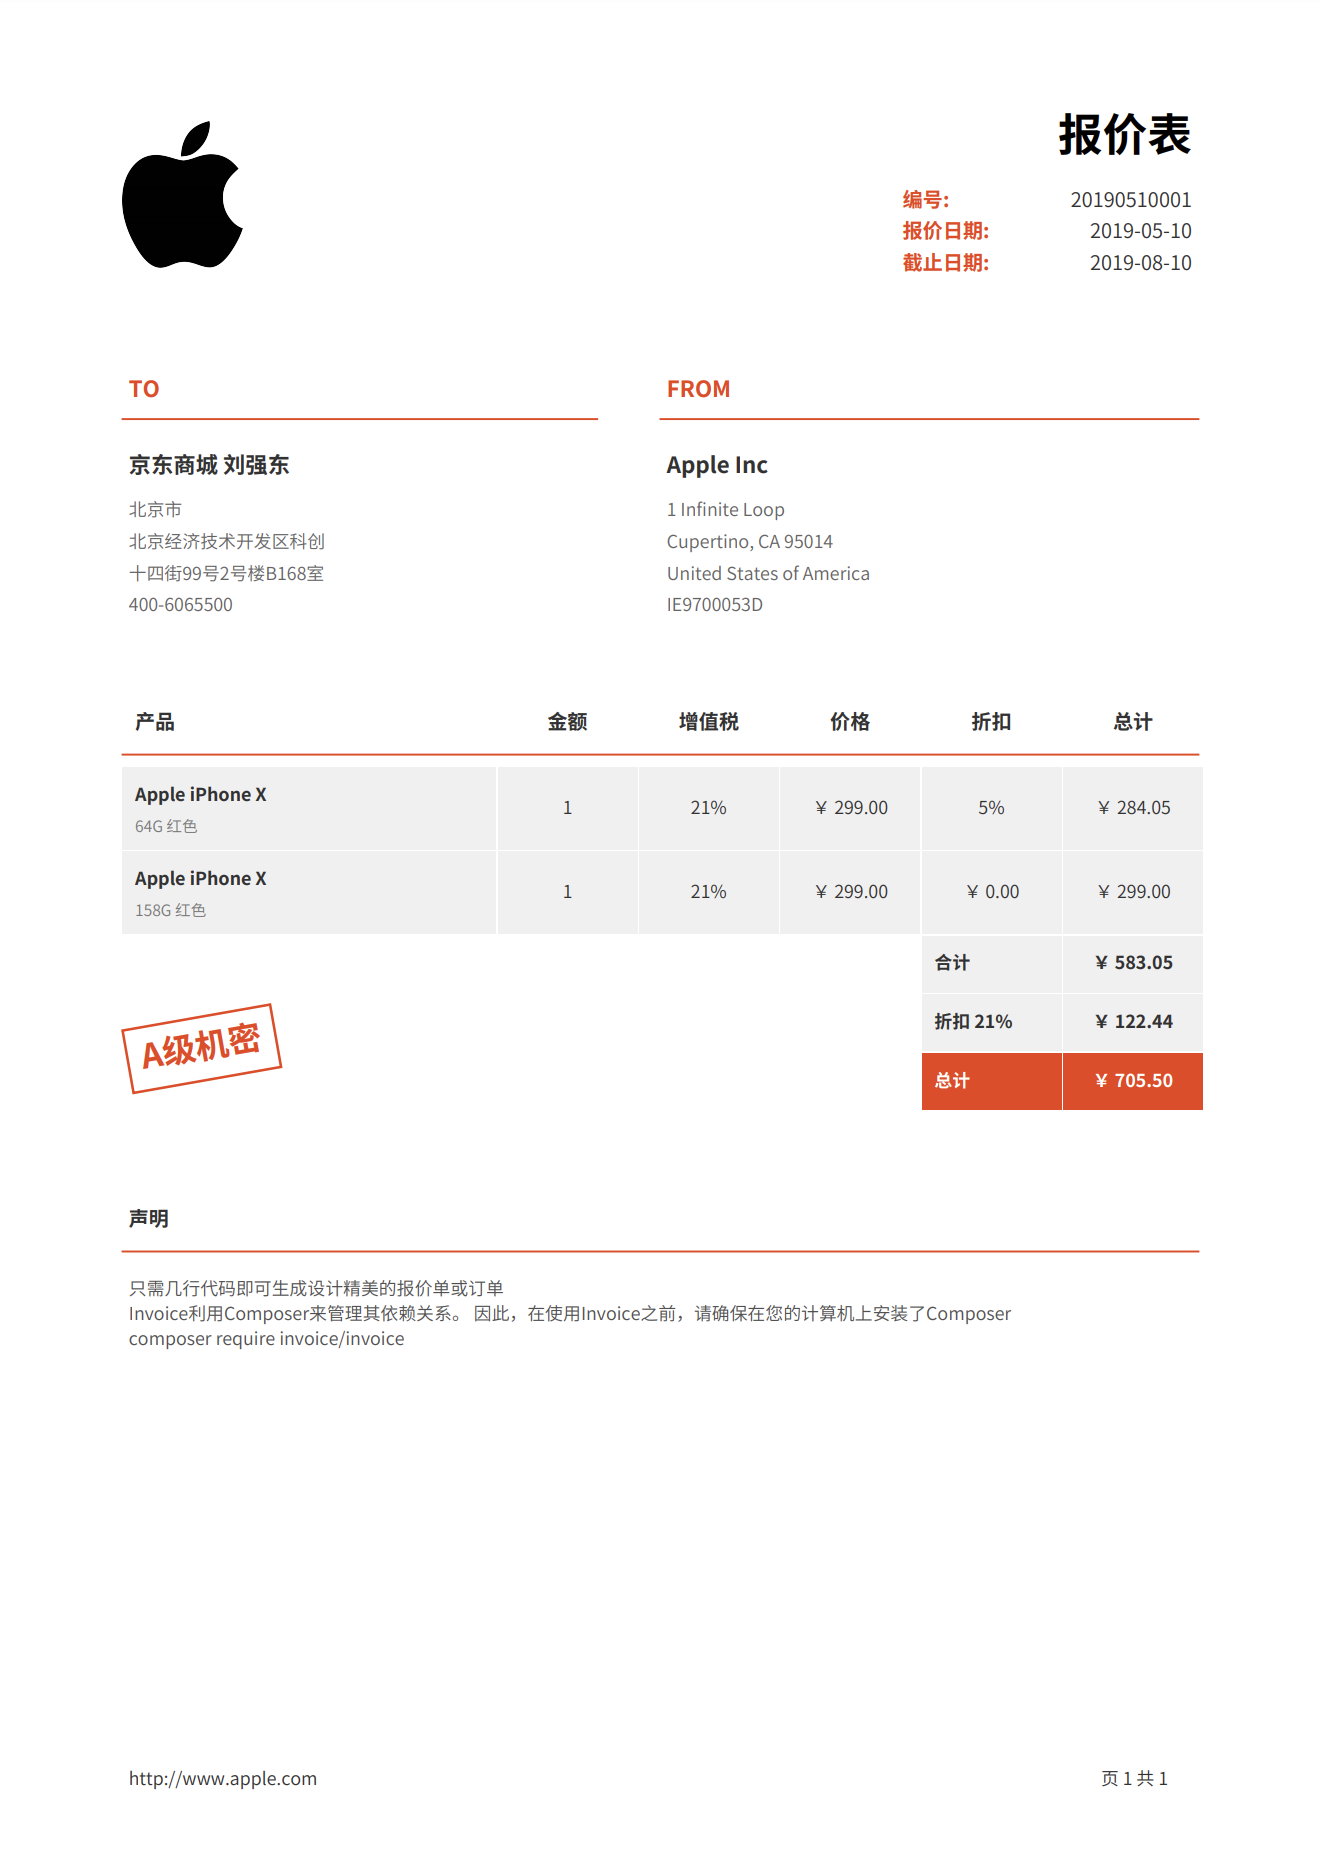
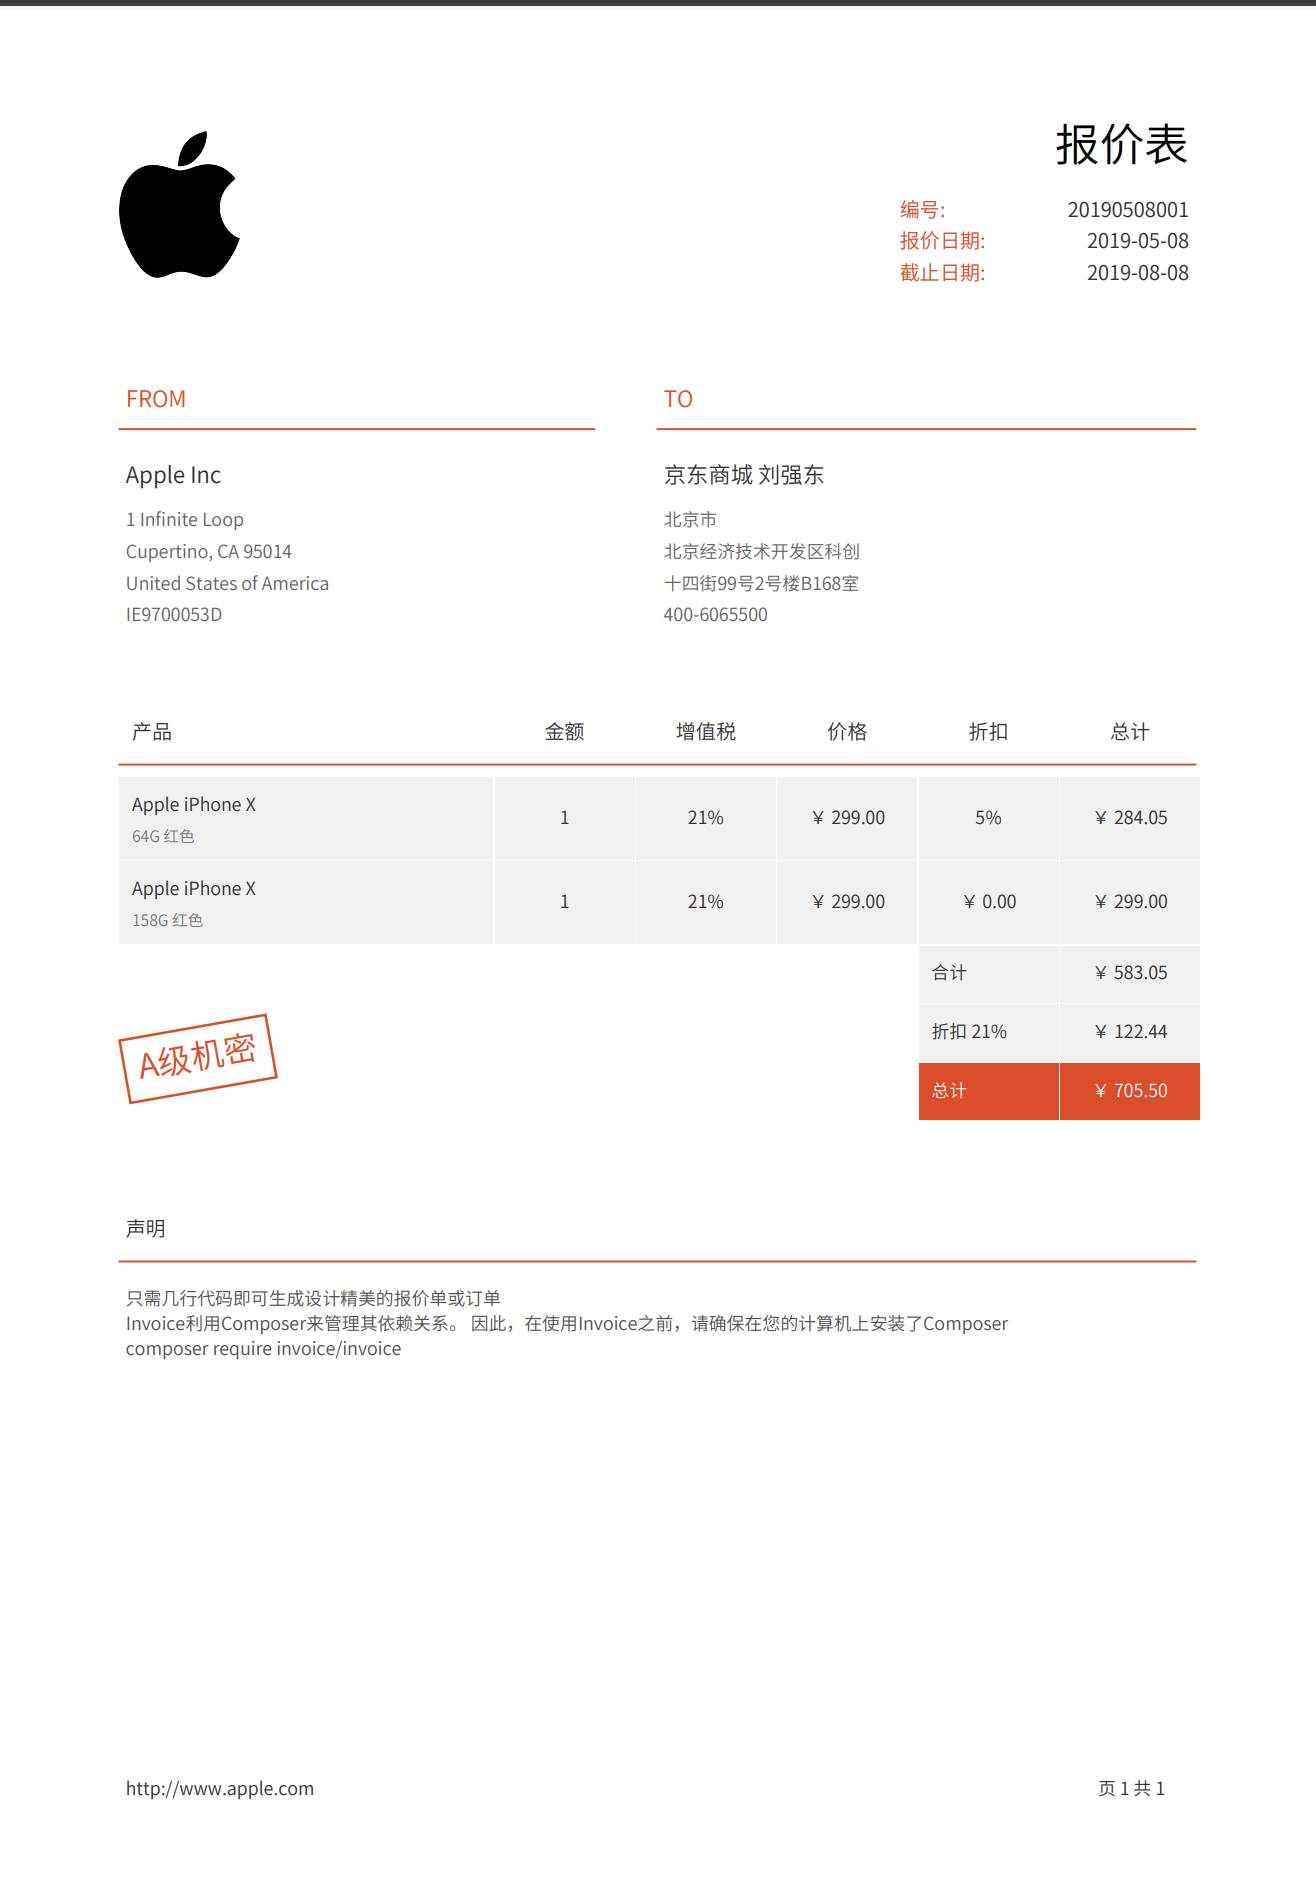
TrueType

diff --git a/README.md b/README.md
@@ -7,6 +7,9 @@
 只需几行代码即可生成设计精美的报价单或订单。使用您自己的徽标和主题颜色进行品牌化，使用自动分页添加无限制的项目和总行数。您可以在用户的浏览器中传送PDF输出，保存在服务器上或强制下载文件
 Invoice内置了中文简体、中文繁体、英语的翻译，您可以设置每个文档所需的货币。
 
+项目已集成[ 思源黑体(Source Han Sans)](https://github.com/Pal3love/Source-Han-TrueType)中文版
+
+
 ## 安装Invoice
 
 Invoice利用Composer来管理其依赖关系。 因此，在使用Invoice之前，请确保在您的计算机上安装了Composer
